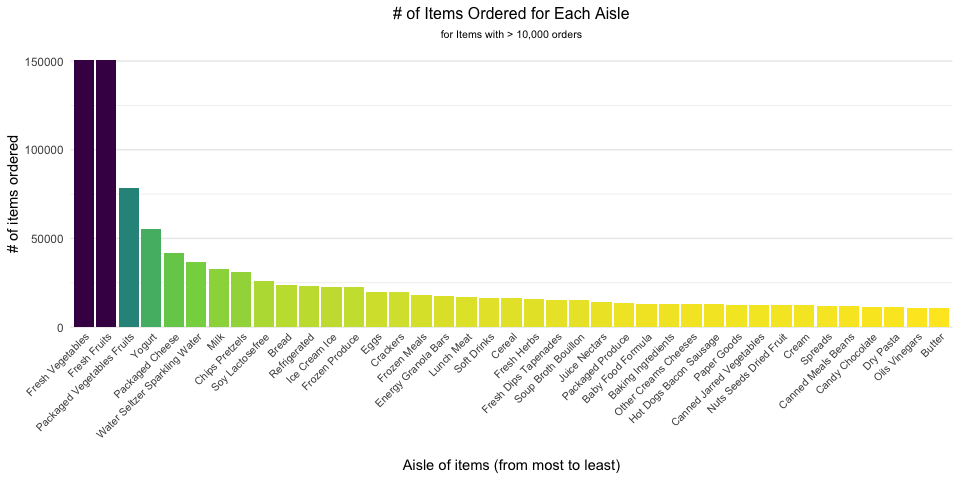
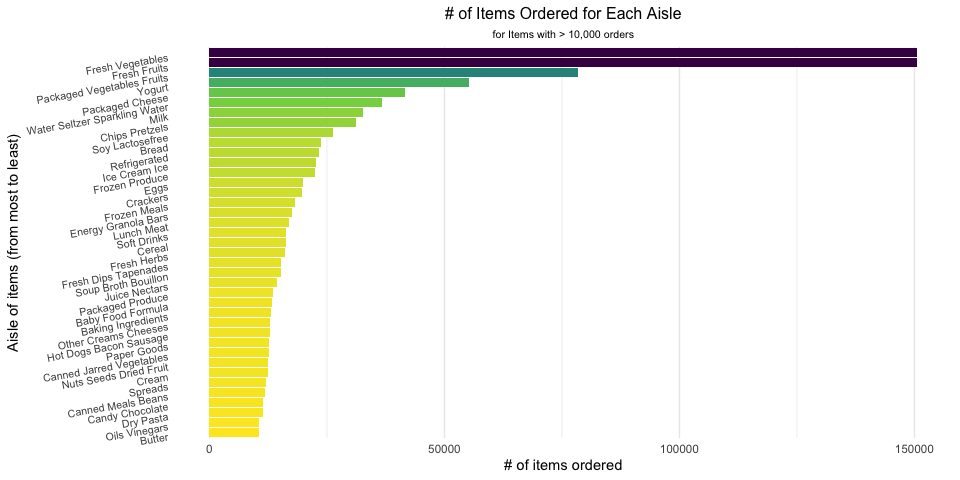
finished core of problem 2, start on prob 3

diff --git a/p8105_hw3_ksw2137.md b/p8105_hw3_ksw2137.md
@@ -81,7 +81,7 @@ numbers of item ordered and its associated aisle.
 ``` r
 aisle_summary %>% 
   filter(aisle_order_count > 10000) %>% 
-  ggplot(aes(x = reorder(aisle, -aisle_order_count), 
+  ggplot(aes(x = reorder(aisle, aisle_order_count), 
              y = aisle_order_count , 
              fill = -aisle_order_count)) +
   geom_bar(stat = "identity") +
@@ -92,8 +92,9 @@ aisle_summary %>%
   theme(plot.title = element_text(hjust = 0.5, size = 12),
         plot.subtitle = element_text(hjust = 0.5, size = 8),
         legend.position = "none",
-        axis.text.x = element_text(angle = 45, hjust = 1, vjust = 1.15, size = 8),
-        panel.grid.major.x = element_blank())
+        axis.text.y = element_text(angle = 10, hjust = 1, vjust = 1, size = 8),
+        panel.grid.major.y = element_blank()) +
+  coord_flip()
 ```
 
 <img src="p8105_hw3_ksw2137_files/figure-gfm/aisle_order_plot-1.png" style="display: block; margin: auto;" />
@@ -162,7 +163,10 @@ insta_df %>%
 # Problem 2
 
 For this problem, we will be loading the BRFSS data included in the
-p8105 package.
+p8105 package. As the data is huge and there were places where it’s not
+tidy, we should tidy this up first by first focusing on pertinent
+information (i.e. topic = “Overall Health and only”Excellent" - “Poor”
+responses).
 
 ``` r
 # Loads BRFSS data from source
@@ -172,27 +176,113 @@ data("brfss_smart2010")
 ### Not sure if necessary.
 brfss_df <- brfss_smart2010 %>%  
   janitor::clean_names() %>% 
-  mutate(
-    locationabbr = "state_abbr",
-    locationdesc = "county"
+  rename(
+    state = locationabbr,
+    county = locationdesc
   ) %>% 
   filter(topic == "Overall Health",
-         response %in% c("Excellent", "Very Good", "Good", "Fair", "Poor"))
+         response %in% c("Excellent", "Very good", "Good", "Fair", "Poor")) %>% 
+  mutate(
+    response = factor(response, levels = c("Poor", "Fair", "Good", "Very Good", "Excellent"))
+  )
 ```
 
-First, do some data cleaning:
+``` r
+brfss_locations <- brfss_df %>% 
+  group_by(year, state) %>% 
+  select(year, state, county) %>% 
+  filter(year %in% c("2010", "2002")) %>% 
+  summarize(county_per_state = n())
 
-format the data to use appropriate variable names; organize responses as
-a factor taking levels ordered from “Poor” to “Excellent” Using this
-dataset, do or answer the following (commenting on the results of each):
+# 2002 locations
+state_2002 <- brfss_locations %>% 
+  filter(year == "2002",
+         county_per_state > 6) %>%
+  pivot_wider(names_from = state,
+              values_from = county_per_state
+  ) %>% 
+  ungroup() %>% 
+  select(-year)
+
+  knitr::kable(list(t1 = head(state_2002)[1:18],
+                    t2 = head(state_2002)[19:36]
+                    )
+               )
+```
+
+| AZ | CO | CT | DE | FL | GA | HI | ID | IL | IN | KS | LA | MA | MD | ME | MI | MN | MO |
+| -: | -: | -: | -: | -: | -: | -: | -: | -: | -: | -: | -: | -: | -: | -: | -: | -: | -: |
+| 10 | 20 | 35 | 15 | 35 | 15 | 20 | 10 | 15 | 10 | 15 | 15 | 40 | 30 | 10 | 20 | 20 | 10 |
+
+| NC | NE | NH | NJ | NV | NY | OH | OK | OR | PA | RI | SC | SD | TN | TX | UT | VT | WA |
+| -: | -: | -: | -: | -: | -: | -: | -: | -: | -: | -: | -: | -: | -: | -: | -: | -: | -: |
+| 35 | 15 | 25 | 40 | 10 | 25 | 20 | 15 | 15 | 50 | 20 | 15 | 10 | 10 | 10 | 25 | 15 | 20 |
+
+``` r
+# 2010 locations
+state_2010 <- brfss_locations %>% 
+  filter(year == "2010",
+         county_per_state > 6) %>%
+  pivot_wider(names_from = state,
+              values_from = county_per_state
+  ) %>% 
+  ungroup() %>% 
+  select(-year)
+
+  knitr::kable(list(t1 = head(state_2010)[1:18],
+                    t2 = head(state_2010)[19:35],
+                    t3 = head(state_2010)[36:45]
+                    )
+               )
+```
+
+| AL | AR | AZ | CA | CO | CT | DE |  FL | GA | HI | IA | ID | IL | IN | KS | LA | MA | MD |
+| -: | -: | -: | -: | -: | -: | -: | --: | -: | -: | -: | -: | -: | -: | -: | -: | -: | -: |
+| 15 | 15 | 15 | 60 | 35 | 25 | 15 | 205 | 20 | 20 | 10 | 30 | 10 | 15 | 20 | 25 | 45 | 60 |
+
+| ME | MI | MN | MO | MS | MT | NC | ND | NE | NH | NJ | NM | NV | NY | OH | OK | OR |
+| -: | -: | -: | -: | -: | -: | -: | -: | -: | -: | -: | -: | -: | -: | -: | -: | -: |
+| 30 | 20 | 25 | 15 | 10 | 15 | 60 | 15 | 50 | 25 | 95 | 30 | 10 | 45 | 40 | 15 | 20 |
+
+| PA | RI | SC | SD | TN | TX | UT | VT | WA | WY |
+| -: | -: | -: | -: | -: | -: | -: | -: | -: | -: |
+| 35 | 25 | 35 | 10 | 25 | 80 | 30 | 30 | 50 | 10 |
 
 In 2002, which states were observed at 7 or more locations? What about
-in 2010? Construct a dataset that is limited to Excellent responses, and
+in 2010?
+
+in 2002 = total 49, over 6, 36 Montana = data start from 2004 VA = start
+from 2007
+
+### Problem 2b - excellent response
+
+We also want to see
+
+Construct a dataset that is limited to Excellent responses, and
 contains, year, state, and a variable that averages the data\_value
 across locations within a state. Make a “spaghetti” plot of this average
 value over time within a state (that is, make a plot showing a line for
 each state across years – the geom\_line geometry and group aesthetic
-will help). Make a two-panel plot showing, for the years 2006, and 2010,
+will help).
+
+``` r
+brfss_excellent <- brfss_df %>% 
+  select(response, year, state, data_value) %>% 
+  group_by(year, state) %>% 
+  filter(response == "Excellent") %>% 
+  drop_na(data_value) %>% 
+  summarize(avg_data = mean(data_value))
+
+brfss_excellent %>% 
+  ggplot(aes(x = year, y = avg_data, color = state)) +
+  geom_line(alpha = 0.7) +
+  theme(legend.position = "right") +
+  guides(color = guide_legend(override.aes = list(size = 6)))
+```
+
+<img src="p8105_hw3_ksw2137_files/figure-gfm/spaghetti_plot-1.png" style="display: block; margin: auto;" />
+
+Make a two-panel plot showing, for the years 2006, and 2010,
 distribution of data\_value for responses (“Poor” to “Excellent”) among
 locations in NY State.
 
